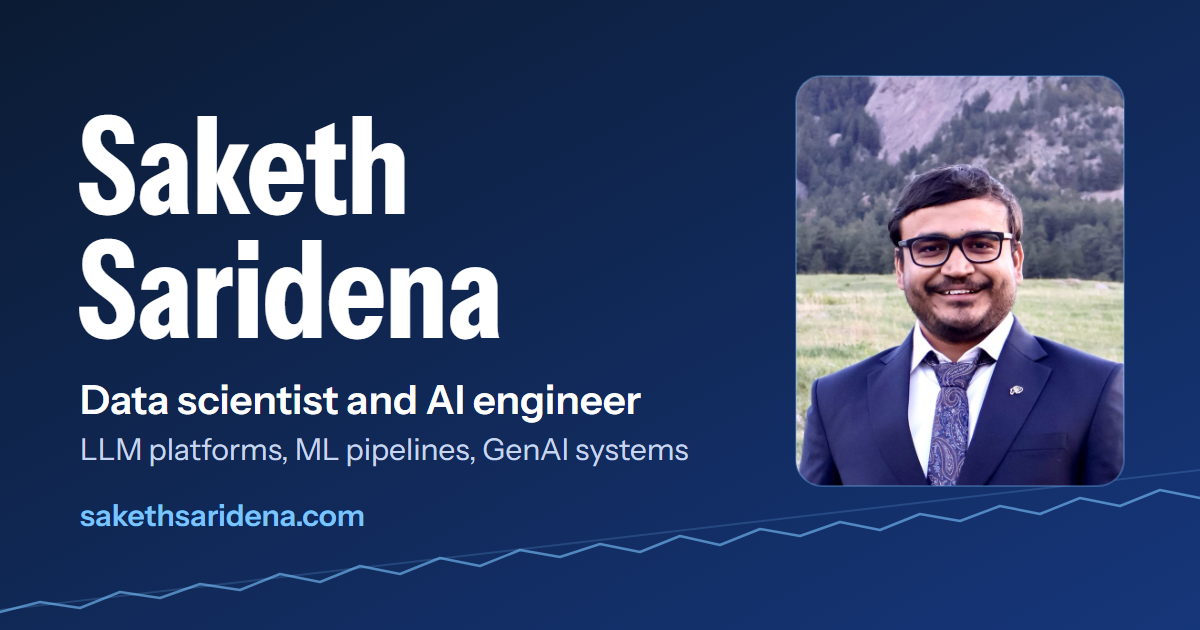
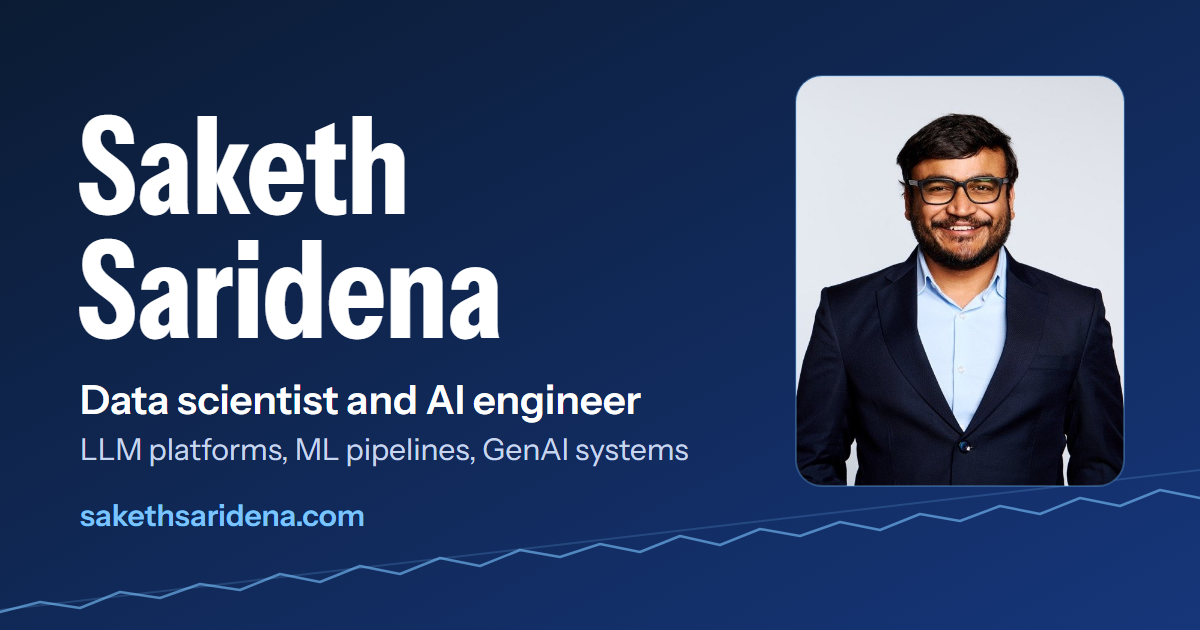
Use the new studio headshot on the page and the share card

Changed region(s): [[0.6475, 0.1206, 0.9558, 0.7841]]

diff --git a/index.html b/index.html
@@ -49,7 +49,7 @@
     "@type": "Person",
     "name": "Saketh Saridena",
     "url": "https://sakethsaridena.com/",
-    "image": "https://sakethsaridena.com/assets/img/saketh-720.jpg",
+    "image": "https://sakethsaridena.com/assets/img/headshot-546.jpg",
     "jobTitle": "Data Scientist & AI Engineer",
     "worksFor": { "@type": "Organization", "name": "Applexus Technologies" },
     "address": { "@type": "PostalAddress", "addressLocality": "Seattle", "addressRegion": "WA", "addressCountry": "US" },
@@ -164,8 +164,8 @@
           </div>
           <figure class="portrait">
             <picture>
-              <source type="image/webp" srcset="/assets/img/saketh-400.webp 400w, /assets/img/saketh-720.webp 720w" sizes="(max-width: 760px) 220px, 340px">
-              <img src="/assets/img/saketh-720.jpg" srcset="/assets/img/saketh-400.jpg 400w, /assets/img/saketh-720.jpg 720w" sizes="(max-width: 760px) 220px, 340px" width="720" height="900" alt="Saketh Saridena in a navy suit, smiling, with the Flatirons in Boulder behind him." fetchpriority="high">
+              <source type="image/webp" srcset="/assets/img/headshot-400.webp 400w, /assets/img/headshot-546.webp 546w" sizes="(max-width: 760px) 220px, 340px">
+              <img src="/assets/img/headshot-546.jpg" srcset="/assets/img/headshot-400.jpg 400w, /assets/img/headshot-546.jpg 546w" sizes="(max-width: 760px) 220px, 340px" width="546" height="683" alt="Saketh Saridena, smiling, in a navy blazer and light blue shirt." fetchpriority="high">
             </picture>
           </figure>
         </div>
